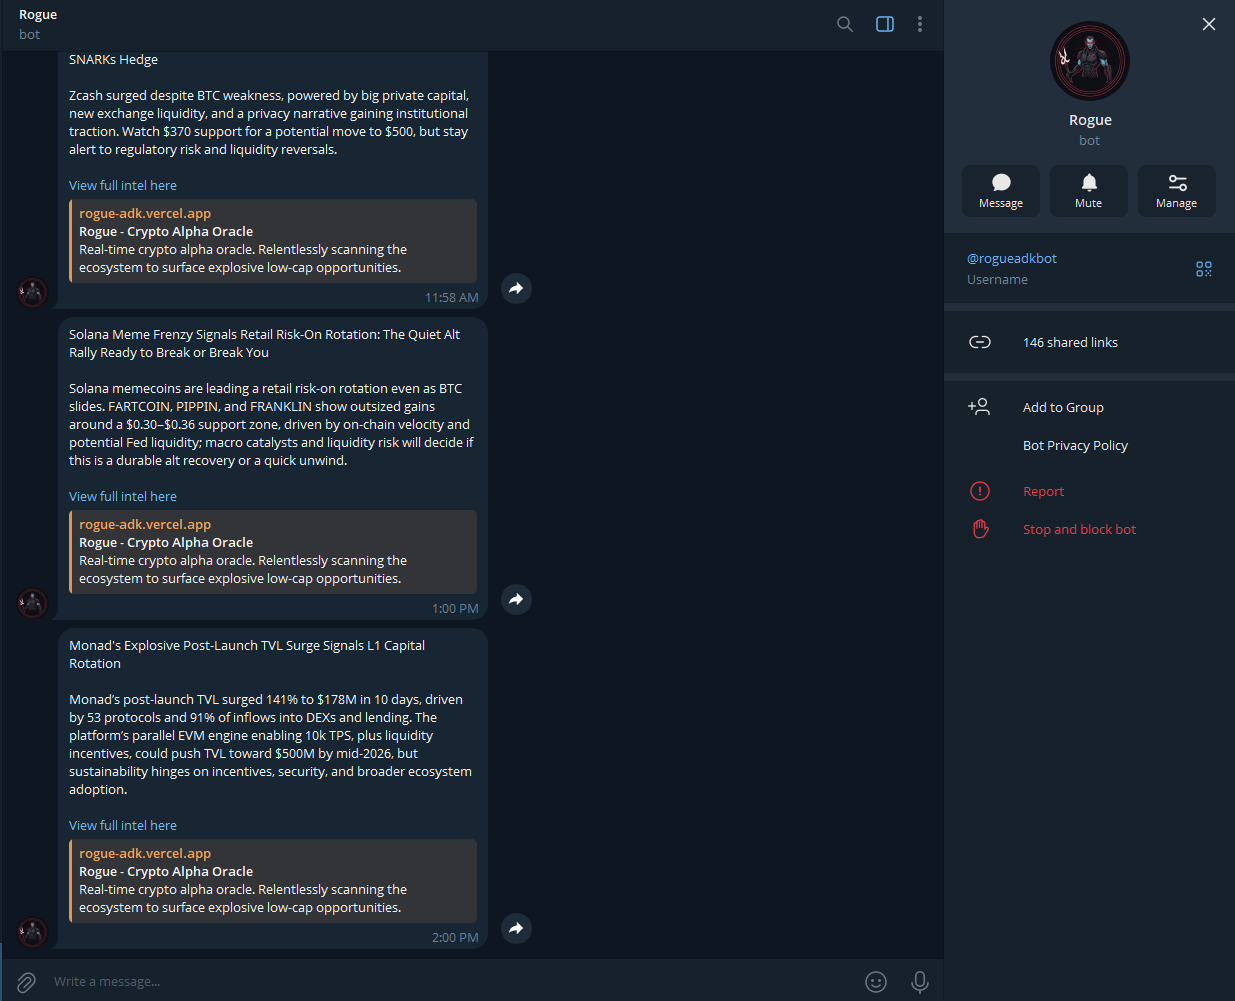
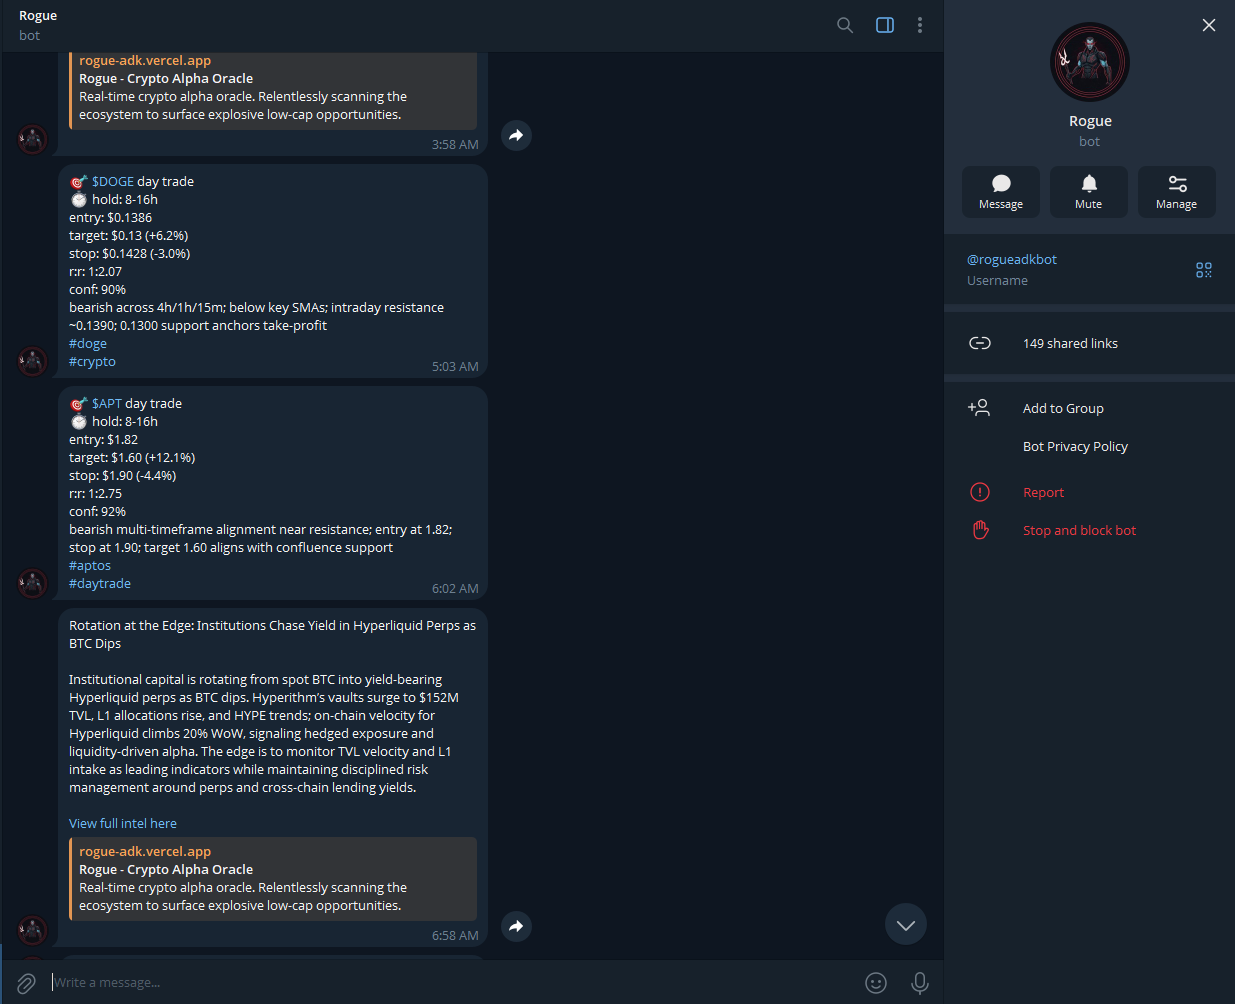
feat: added the telegram bot image to the docs

diff --git a/DORAHACKS_BUIDL.md b/DORAHACKS_BUIDL.md
@@ -47,11 +47,17 @@
 ### What Makes Rogue Different?
 
 🎯 **Autonomous Operation**: Runs 24/7 without manual input  
-🧠 **Multi-Agent Intelligence**: 10+ specialized agents for scanning, analysis, execution, and distribution  
+
+🧠 **Multi-Agent Intelligence**: 10+ specialized agents for scanning, analysis, execution, and distribution 
+
 📈 **From Analysis to Execution**: Trades LONG/SHORT positions on Hyperliquid with dynamic leverage  
+
 ⚠ **Strict Risk Management**: Minimum **3% SL**, **1:2.5 R:R** requirement, **85%+ confidence**, structural stop placement  
+
 🔄 **Bias-First Scanning**: Determines LONG/SHORT/NEUTRAL market bias before finding matching opportunities  
+
 📊 **Visual Chart Analysis**: TradingView chart images for pattern confirmation  
+
 🗣 **Voice AI Interface**: Speak to Rogue using natural language via VAPI  
 
 ---
@@ -259,6 +265,9 @@ Rogue uses **8 advanced indicators** achieving **89-97% accuracy**:
 
 ### Tiered Access System
 
+![Telegram Bot](https://rogue-adk.vercel.app/telegram-bot.png)
+*Tiered signal distribution via Telegram DMs*
+
 | Tier | Requirement | Benefits |
 |------|-------------|----------|
 | 💎 Diamond | 1000+ RGE | Immediate signals, priority support, exclusive alpha |
@@ -335,19 +344,32 @@ AI-powered visual chart analysis using a two-stage pipeline:
 
 Rogue is a production-ready autonomous trading system built on IQ.AI ADK-TS, featuring:
 
-✅ Multi-agent swarm architecture (10+ specialized agents)  
+✅ Multi-agent swarm architecture (10+ specialized agents)   
+
 ✅ **Bias-First Scanner** — determines market direction before finding trades  
+
 ✅ **Enhanced Quality Gate** — 85%+ confidence, 1:2.5+ R:R, 2+ confluences  
+
 ✅ **122 Unified Tradeable Tokens** — verified on both Binance Futures & Hyperliquid  
+
 ✅ **Binance Futures OHLCV** — Institutional-grade candlestick data  
+
 ✅ **Professional Chart Generation** — TradingView-quality PNG charts with MAs, BBands, Volume  
+
 ✅ **Vision-based Chart Analysis** — LLM analyzes actual chart images  
+
 ✅ 25+ custom tools for market data, TA, and publishing  
+
 ✅ Advanced 2025 meta indicators (89-97% accuracy)  
+
 ✅ Autonomous futures trading on Hyperliquid  
+
 ✅ Real-time X search and sentiment analysis  
+
 ✅ Voice AI interface with natural language commands  
+
 ✅ Tiered access system with $RGE token  
+
 ✅ Professional React dashboard with live updates  
 
 **Built for traders who demand institutional-grade intelligence, delivered autonomously.**

diff --git a/README.md b/README.md
@@ -589,6 +589,9 @@ cvd divergence + poc support + network upgrade catalyst
 
 **Role**: Distributes content across Telegram, Twitter, and database with tiered timing.
 
+![Telegram Distribution](https://rogue-adk.vercel.app/telegram-bot.png)
+*Multi-tier signal distribution via Telegram bot*
+
 **Distribution Strategy**:
 
 | Tier | Delivery Time | Channels | Coverage |
